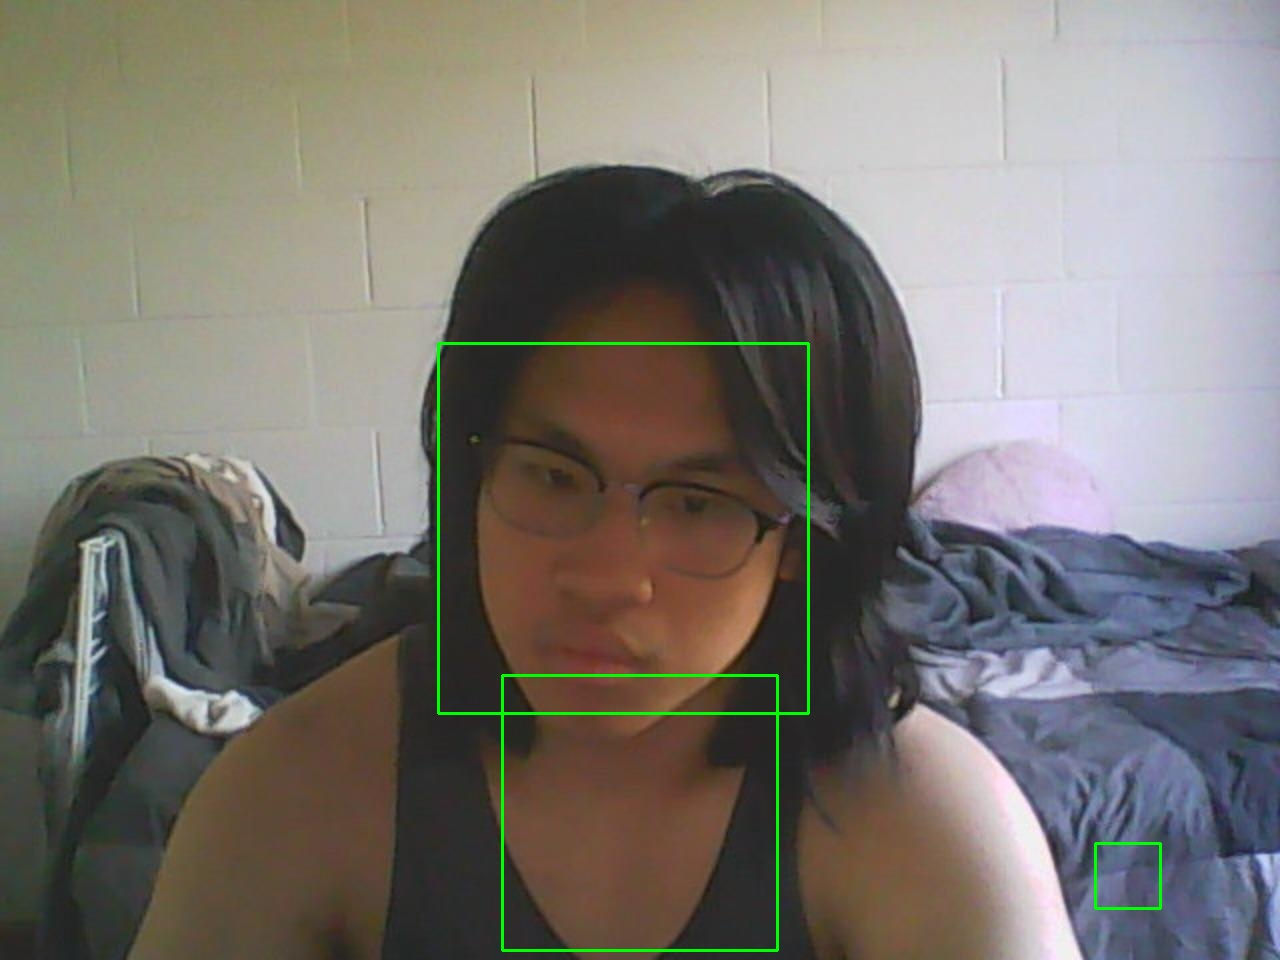
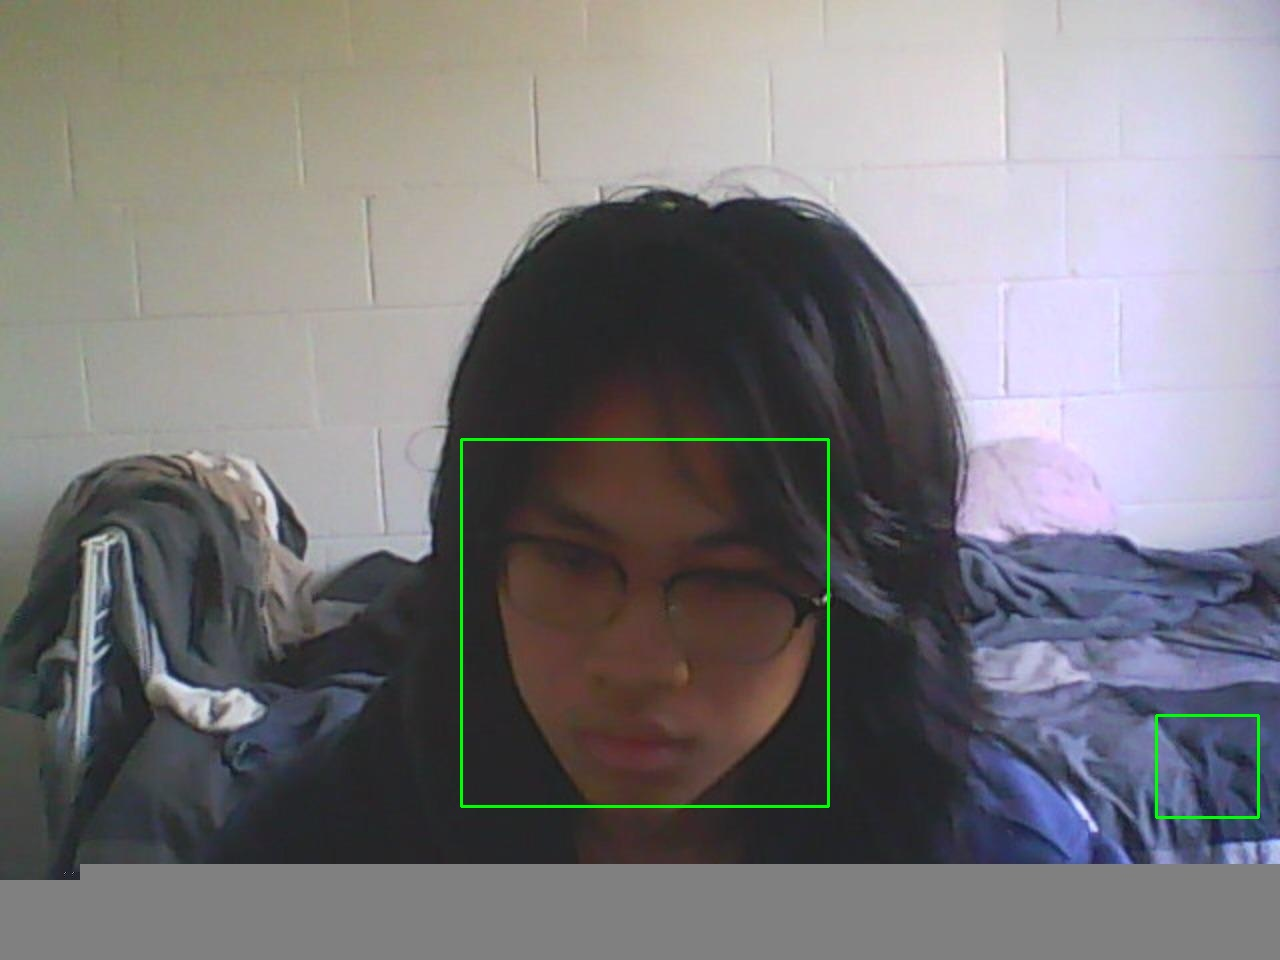
proof of concept mk 1

diff --git a/client/src/components/box.js b/client/src/components/box.js
@@ -9,11 +9,17 @@ function Box() {
   const drawRectangle = (e) => {
     var coords = e.split(",");
     const context = canvasRef.current.getContext("2d");
-    context.strokeStyle = "black";
+    context.strokeStyle = "green";
     context.lineWidth = 2;
     context.clearRect(0, 0, 500, 500)
     context.strokeRect(parseInt(coords[0])/4, parseInt(coords[1])/10, parseInt(coords[2])/5, parseInt(coords[3])/5);
-    console.log(parseInt(coords[0])+ parseInt(coords[1])+ parseInt(coords[2]), parseInt(coords[3]));
+    context.fillStyle = "white";
+    context.fillRect(parseInt(coords[0])/4 + (parseInt(coords[2])/5)+10, parseInt(coords[1])/10, parseInt(coords[2])/5, parseInt(coords[3])/5);
+    if (parseInt(coords[1]) != 0){
+      context.fillStyle = "red";
+      context.fillText('Ziki Zheng', parseInt(coords[0])/4 + parseInt(coords[2])/4, (parseInt(coords[2])/5))
+    }
+    
   };
 
   useEffect(() => {setInterval(()=>{
@@ -30,6 +36,7 @@ function Box() {
       height: 960,
     }}
   />
+  <div className="txtbox"/>
 </div>
   );
 }

diff --git a/client/src/App.js b/client/src/App.js
@@ -3,6 +3,7 @@ import Webcam from 'react-webcam';
 import Box from './components/box.js';
 import WebcamCapture from './components/webcam.js'
 import "./App.css";
+import iphone from "./images/iphone.png"
 
 class App extends Component{
 
@@ -14,6 +15,7 @@ class App extends Component{
         <div className='face'>
           <WebcamCapture/>
           <Box/>
+          <img src={iphone} className='overlay'/>
         </div>
         
       </div>

diff --git a/client/src/App.css b/client/src/App.css
@@ -1,20 +1,29 @@
-var x
-var y
-var h
-var w
 *{
   margin: 0;
 }
+body{
+  background-color:#585858;
+}
+/* .overlay {
+  position:absolute;
+  left:0px;
+  top:0px;
+  height:980px;
+ } */
+
 canvas{
   position:absolute;
+  height: 960px;
   top:0;
+  left:0;
   padding:0;
   margin:0;
 }
 
 .webcam{
   position:absolute;
-  top:0;
+  height: 960px;
+  top:0px;
   padding:0;
   margin:0;
 }

diff --git a/client/src/components/webcam.js b/client/src/components/webcam.js
@@ -23,7 +23,7 @@ function WebcamCapture() {
                 })
                 .catch(error=>{
                 })
-            }catch(a){}}, 1000)
+            }catch(a){}}, 500)
     },[]);
     
         return(
